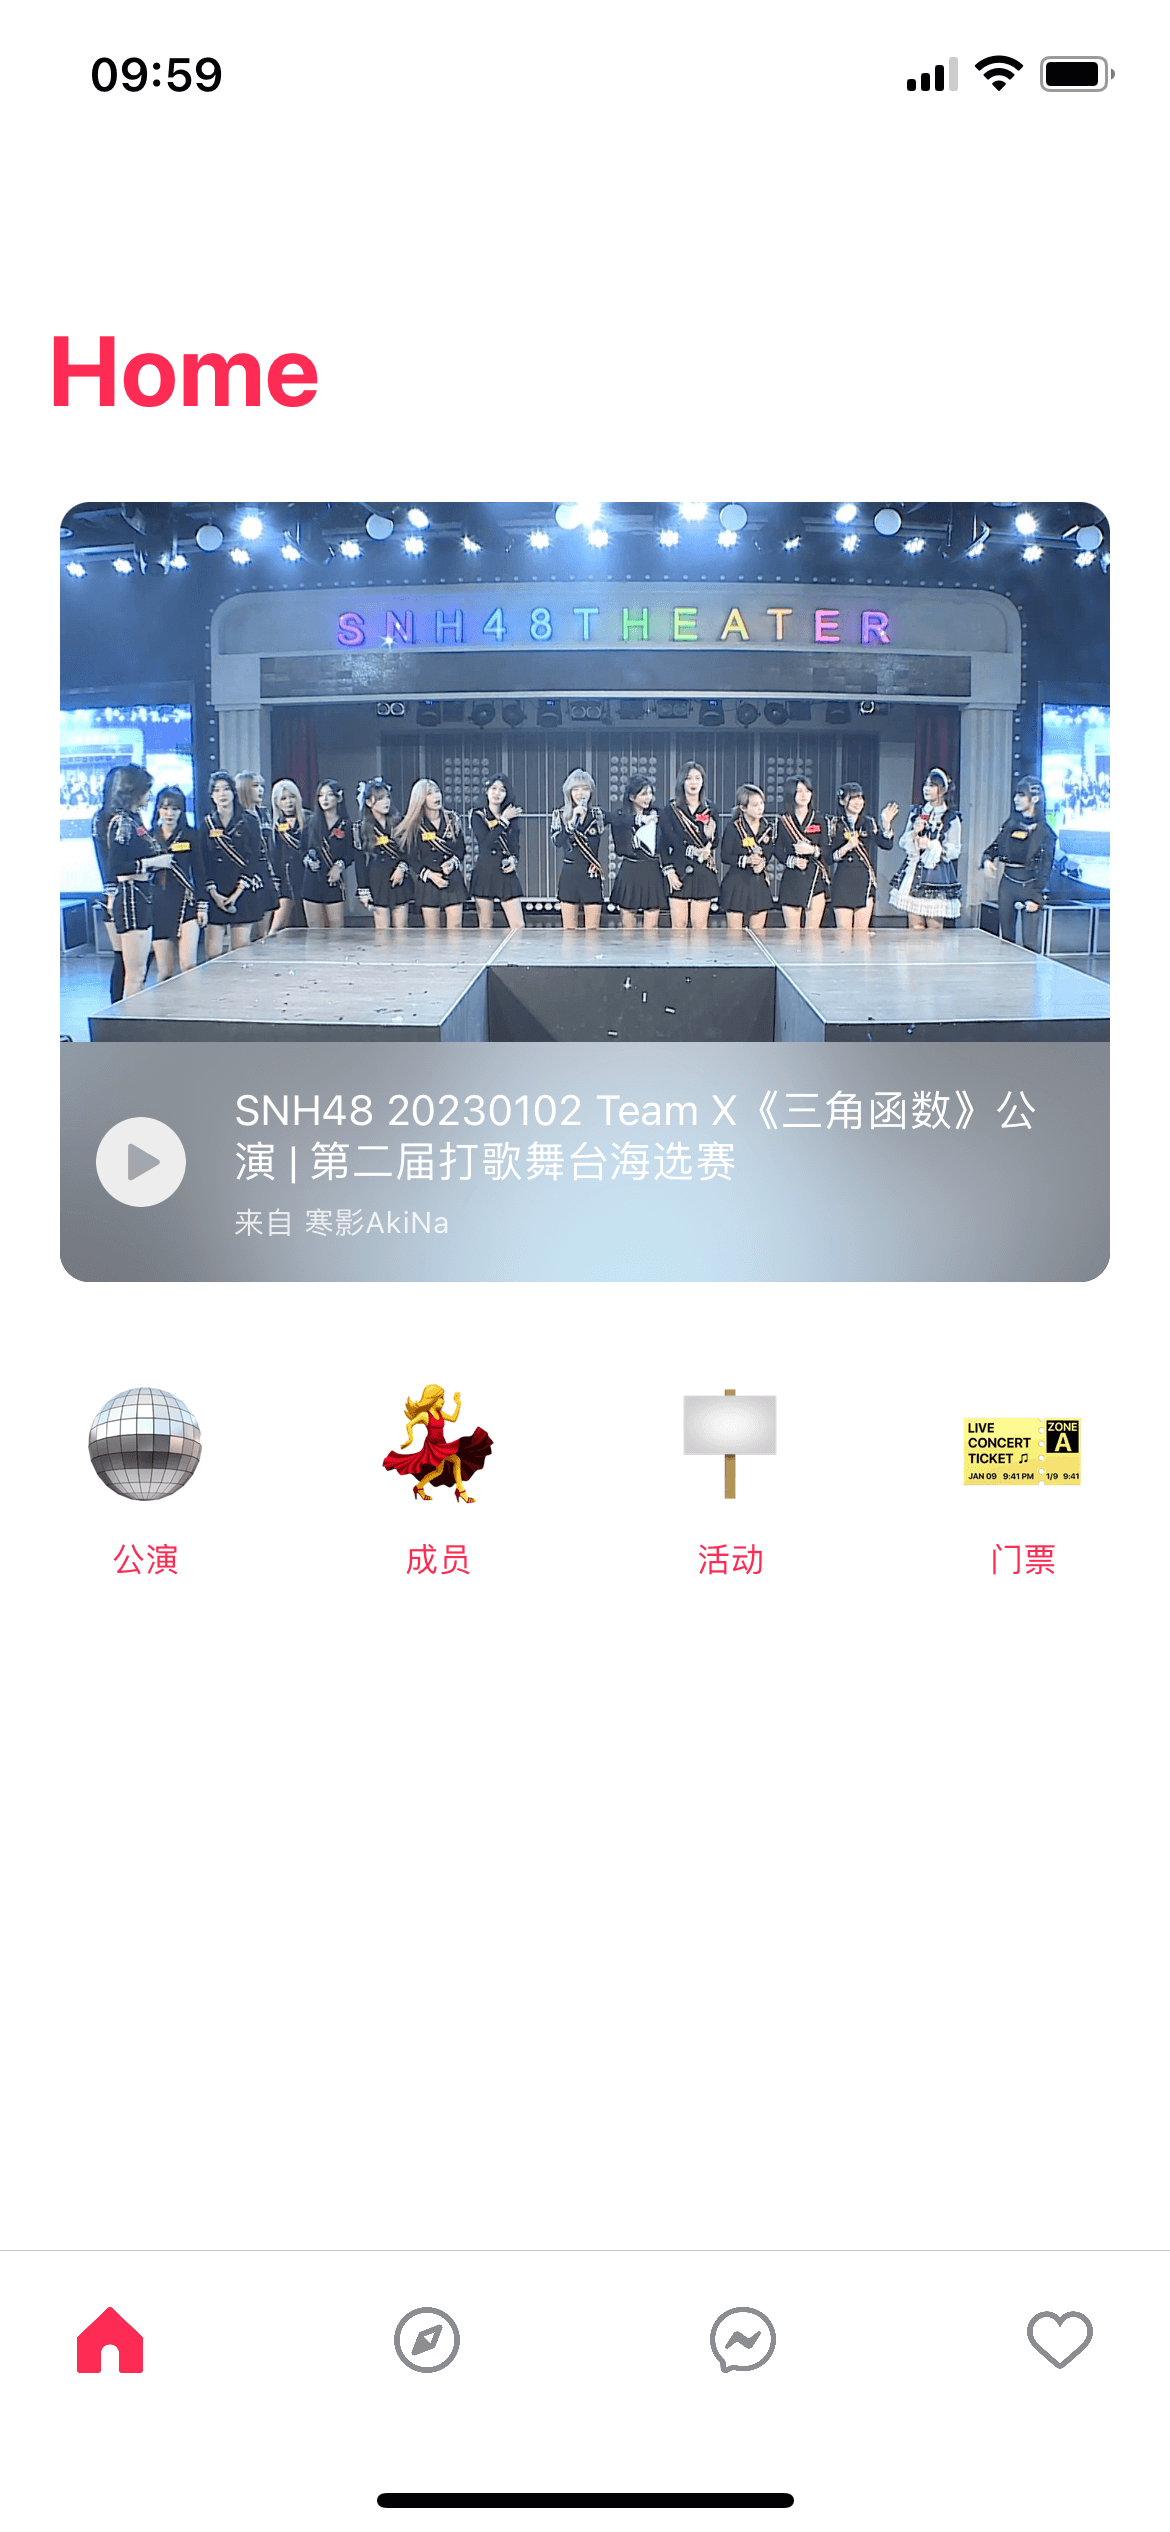
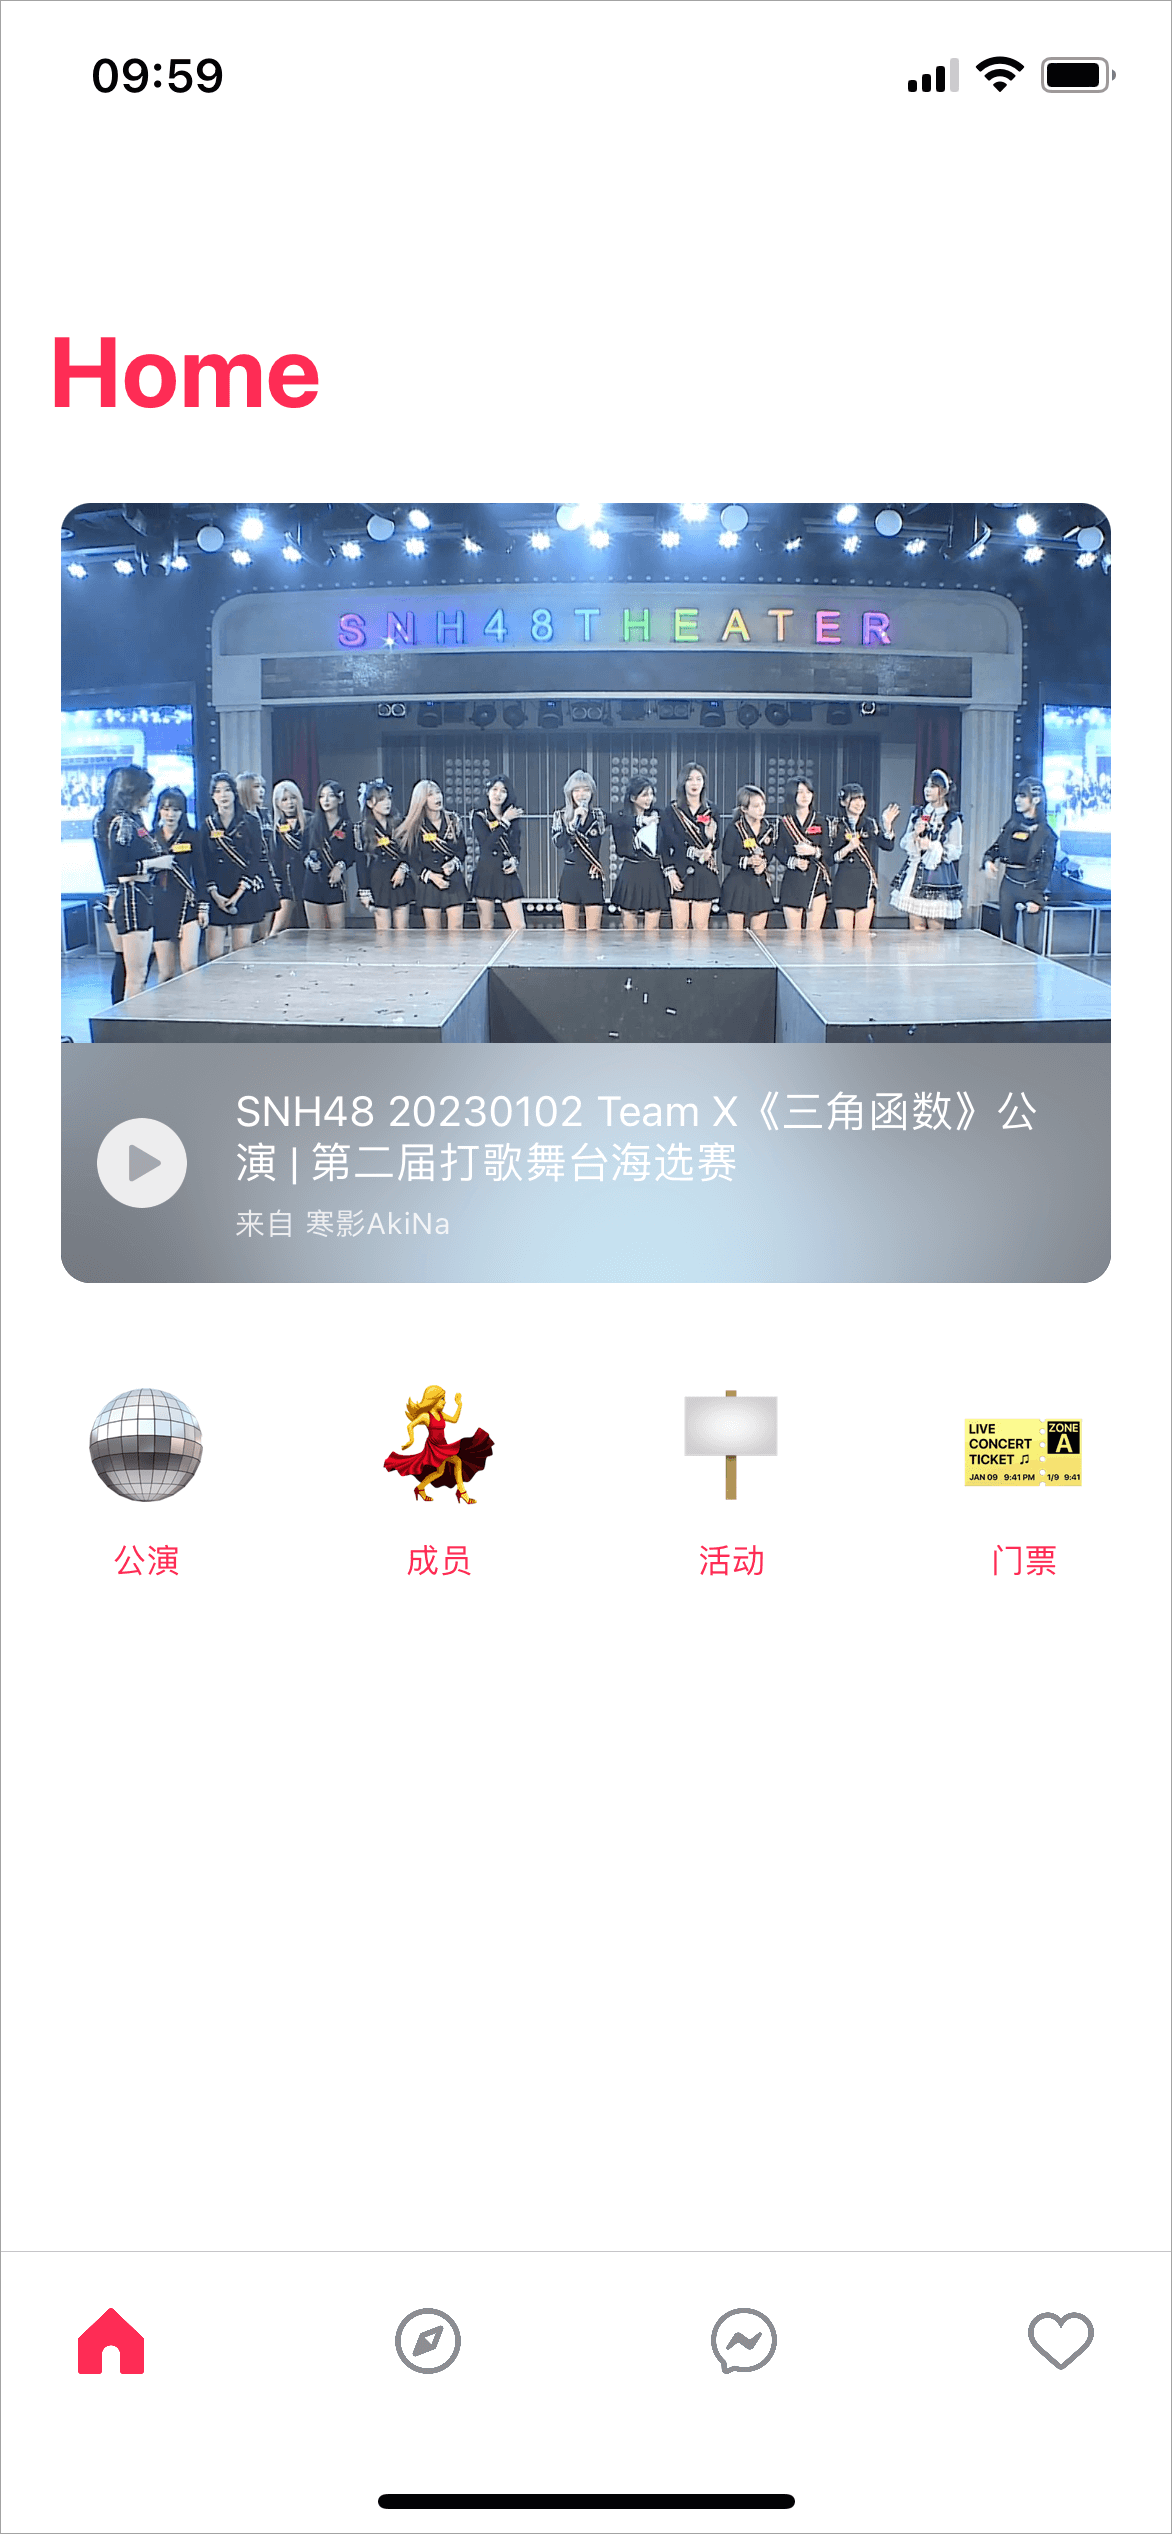
Empty Commit Message

diff --git a/README.md b/README.md
@@ -6,30 +6,30 @@
 <div>
 	<h4>首页</h4>
 	<p>实时读取B站最新公演</p>
-	<p><img style="border:1px #efefef solid;" src="https://raw.githubusercontent.com/zhazhahan/pocket/main/update2/2.png" width="200"></p>
+	<p><img src="https://raw.githubusercontent.com/zhazhahan/pocket/main/update2/2.png" width="200"></p>
 </div>
 <div>
 	<h4>消息</h4>
-	<p><img style="border:1px #efefef solid;" src="https://raw.githubusercontent.com/zhazhahan/pocket/main/update2/3.png" width="200"></p>
+	<p><img src="https://raw.githubusercontent.com/zhazhahan/pocket/main/update2/3.png" width="200"></p>
 </div>
 <div>
 	<h4>消息详情</h4>
 	<p>跟进头像生成主题色，UI改版，聚聚模式下，上下定位到小偶像发言位置</p>
-	<p><img style="border:1px #efefef solid;" src="https://raw.githubusercontent.com/zhazhahan/pocket/main/update2/6.png" width="200"></p>
-	<p><img style="border:1px #efefef solid;" src="https://raw.githubusercontent.com/zhazhahan/pocket/main/update2/7.png" width="200"></p>
+	<p><img src="https://raw.githubusercontent.com/zhazhahan/pocket/main/update2/6.png" width="200"></p>
+	<p><img src="https://raw.githubusercontent.com/zhazhahan/pocket/main/update2/7.png" width="200"></p>
 </div>
 <div>
 	<h4>动态(开发中...)</h4>
-	<p><img style="border:1px #efefef solid;" src="https://raw.githubusercontent.com/zhazhahan/pocket/main/update2/4.png" width="200"></p>
+	<p><img src="https://raw.githubusercontent.com/zhazhahan/pocket/main/update2/4.png" width="200"></p>
 </div>
 <div>
 	<h4>我的(开发中...)</h4>
-	<p><img style="border:1px #efefef solid;" src="https://raw.githubusercontent.com/zhazhahan/pocket/main/update2/5.png" width="200"></p>
+	<p><img src="https://raw.githubusercontent.com/zhazhahan/pocket/main/update2/5.png" width="200"></p>
 </div>
 <p>
 	<h4>直播</h4>
 	<p>特色：干净的UI，实时互动开发中</p>
-	<p><img style="border:1px #efefef solid;" src="https://raw.githubusercontent.com/zhazhahan/pocket/main/update2/8.jpg" width="200"></p>
+	<p><img src="https://raw.githubusercontent.com/zhazhahan/pocket/main/update2/8.jpg" width="200"></p>
 </p>
 
 
